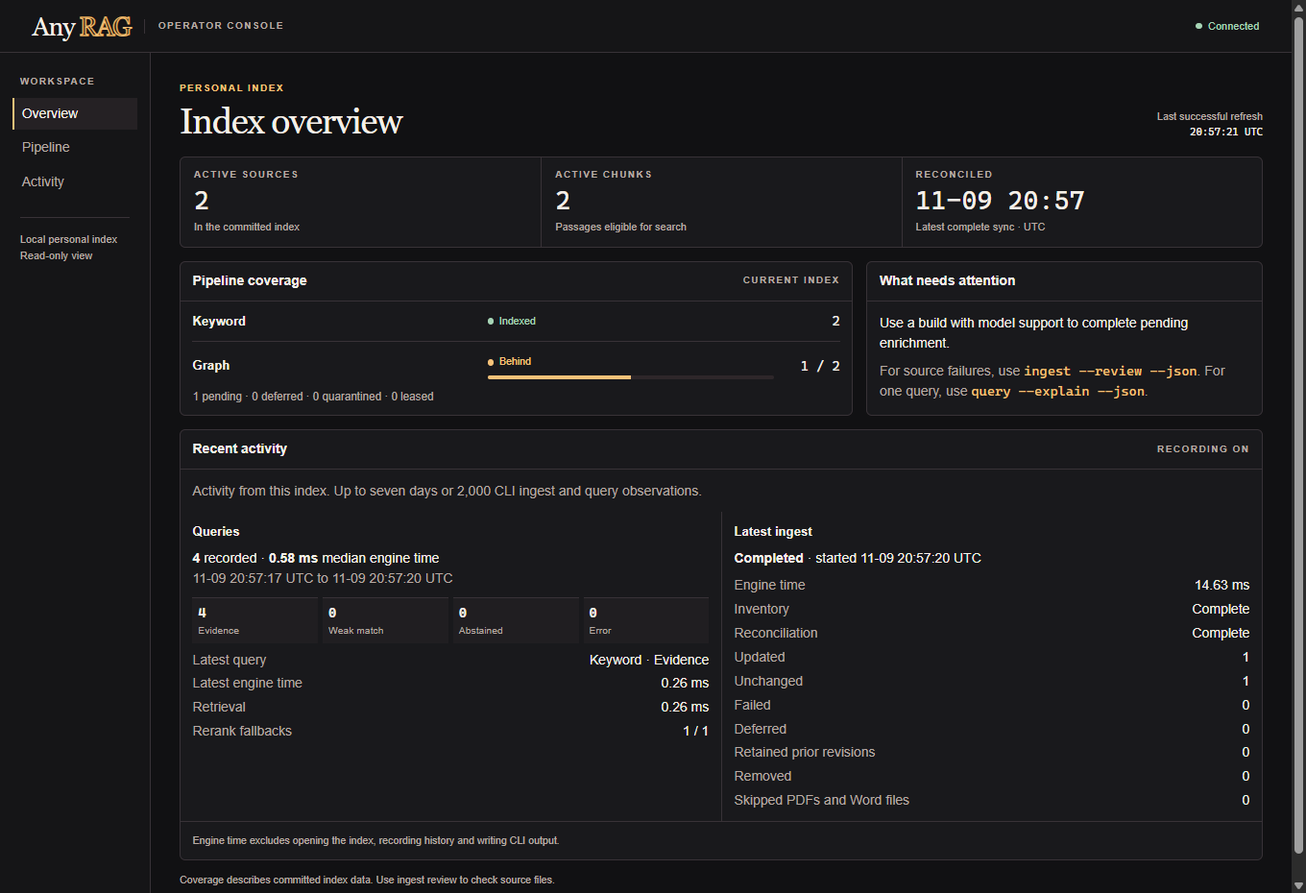
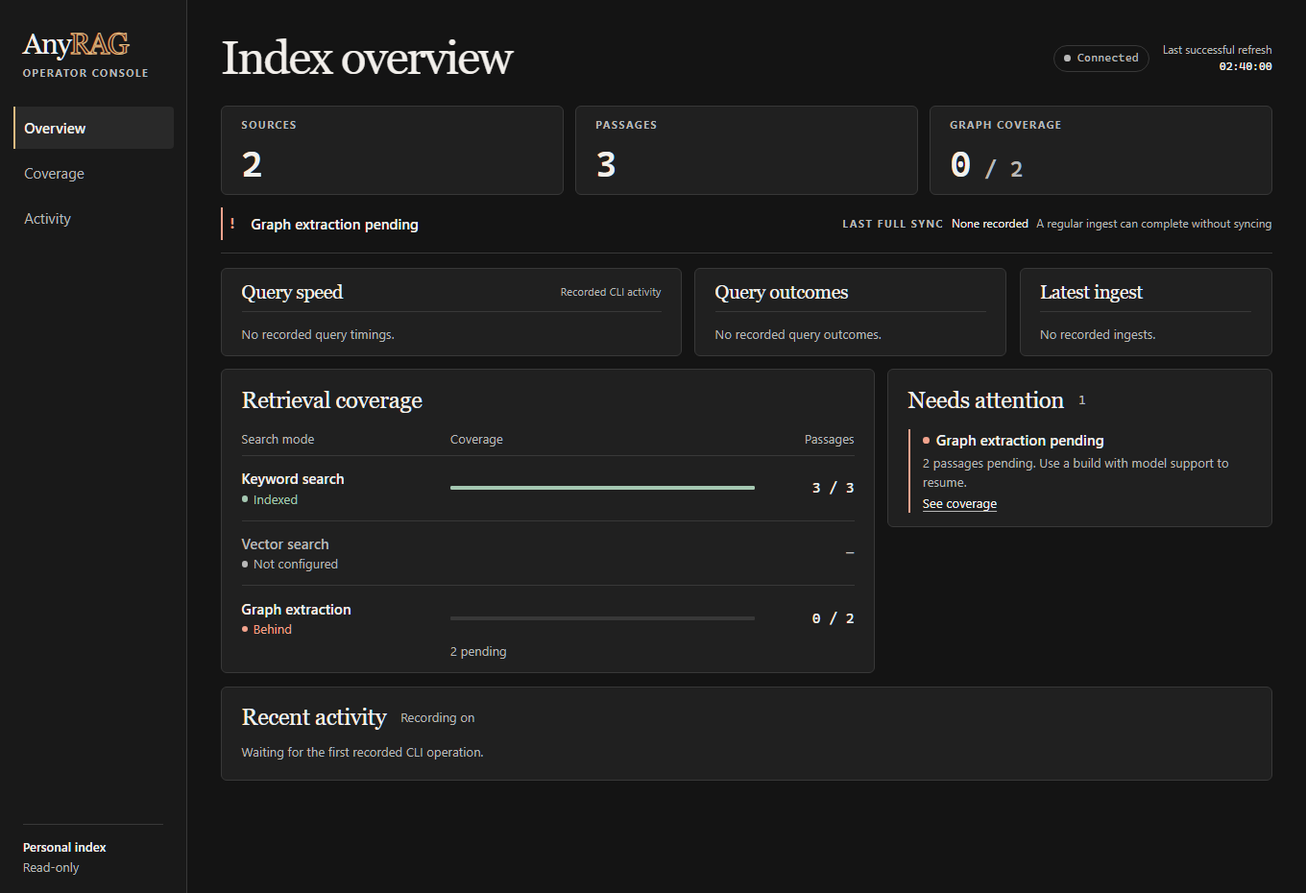
Use AnyRAG consistently as one word

diff --git a/infra/review/index.html b/infra/review/index.html
@@ -5,7 +5,7 @@
   <meta name="viewport" content="width=device-width, initial-scale=1">
   <meta name="referrer" content="no-referrer">
   <meta http-equiv="Content-Security-Policy" content="default-src 'none'; script-src 'self'; style-src 'self'; connect-src 'self'; base-uri 'none'; form-action 'none'">
-  <title>Operator console · Any RAG</title>
+  <title>Operator console · AnyRAG</title>
   <link rel="stylesheet" href="./review.css">
   <script type="module" src="./review.js"></script>
 </head>
@@ -14,7 +14,7 @@
   <div class="ops-shell">
     <aside class="ops-rail">
       <div class="ops-rail-inner">
-        <div class="ops-brand"><span class="wordmark">Any <span>RAG</span></span><span class="ops-caption">Operator console</span></div>
+        <div class="ops-brand"><span class="wordmark">Any<span>RAG</span></span><span class="ops-caption">Operator console</span></div>
         <nav class="ops-nav" aria-label="Dashboard sections">
           <button type="button" data-view="overview" aria-current="page"><span class="nav-icon icon-overview" aria-hidden="true"></span>Overview</button>
           <button type="button" data-view="search"><span class="nav-icon icon-search" aria-hidden="true"></span>Search</button>

diff --git a/crates/rust-rag/src/dashboard/view.rs b/crates/rust-rag/src/dashboard/view.rs
@@ -96,7 +96,7 @@ fn page(
   <meta charset="utf-8">
   <meta name="viewport" content="width=device-width, initial-scale=1">
   <meta name="referrer" content="no-referrer">
-  <title>Index overview | Any RAG</title>
+  <title>Index overview | AnyRAG</title>
   {assets}
 </head>
 <body>
@@ -104,7 +104,7 @@ fn page(
 <div class="frame">
   <aside class="rail">
     <div class="rail-inner">
-      <div class="brand"><span class="wordmark">Any <span>RAG</span></span><span class="label product">Operator console</span></div>
+      <div class="brand"><span class="wordmark">Any<span>RAG</span></span><span class="label product">Operator console</span></div>
       <nav aria-label="Dashboard sections">
         <a href="#overview" aria-current="location">Overview</a><a href="#pipeline">Coverage</a><a href="#indexed-sources" hidden>Sources</a><a href="#recent-activity">Activity</a>{review_link}
       </nav>
@@ -281,7 +281,7 @@ pub(super) fn cards(snapshot: &Snapshot, review: Option<&anyhow::Result<ReviewQu
             ),
             ReadState::UnsupportedSchema => (
                 "Unsupported index format",
-                "Use an Any RAG build that supports this index format.",
+                "Use an AnyRAG build that supports this index format.",
             ),
         };
         let _ = write!(

diff --git a/scripts/smoke_practical_gaps.py b/scripts/smoke_practical_gaps.py
@@ -1,4 +1,4 @@
-"""Four small, model-free smoke tests against the compiled Any RAG CLI."""
+"""Four small, model-free smoke tests against the compiled AnyRAG CLI."""
 
 import argparse
 import json

diff --git a/docs/rag-reference.md b/docs/rag-reference.md
@@ -1,6 +1,6 @@
 # RAG architecture reference
 
-Use this guide to choose a stack, explain the tradeoffs, and identify what to implement. The [field guide](field-guide.md) starts with the question and points to runnable Any RAG profiles. This reference covers the decisions behind those profiles and the extensions an adopter can build.
+Use this guide to choose a stack, explain the tradeoffs, and identify what to implement. The [field guide](field-guide.md) starts with the question and points to runnable AnyRAG profiles. This reference covers the decisions behind those profiles and the extensions an adopter can build.
 
 [Pipeline](#follow-the-evidence-through-the-pipeline) · [Sources and chunking](#sources-parsing-and-chunks) · [Embedding and retrieval](#embeddings-and-first-pass-retrieval) · [Models](#choose-models-by-job) · [Storage](#storage-and-indexing-options) · [Graph RAG](#graph-rag-patterns) · [Structured records](#structured-records-and-federated-retrieval) · [Reranking and answers](#reranking-context-and-answers) · [Evaluation](#evaluate-the-failing-stage) · [Operations](#operations-and-verification) · [Custom integrations](#when-a-workload-needs-an-adapter)
 
@@ -14,7 +14,7 @@ Use this guide to choose a stack, explain the tradeoffs, and identify what to im
 | Answer an exact question about live records | Scoped SQL or an authoritative API | Federated retrieval when documents explain the result. |
 | Answer across scans, tables, diagrams, or recordings | Layout-aware or multimodal extraction with original anchors | Separate retrieval routes by modality when one representation loses detail. |
 
-Any RAG ships local text and Markdown retrieval and SQLite. Optional builds add text-layer PDF and Word readers, semantic and hybrid search, typed graph traversal, local reranking, cited answers, and read-only MCP. Its authenticated shared service scopes reads by collection. Scanned-table OCR is **experimental**. The AWS reference includes an optional Neptune topology projection and remains **unqualified** for live cloud use. PostgreSQL/pgvector, Qdrant, and global community search are **custom integrations**. Check the status of each profile and platform before relying on it. [Setup](setup.md) · [Current status](../status.md)
+AnyRAG ships local text and Markdown retrieval and SQLite. Optional builds add text-layer PDF and Word readers, semantic and hybrid search, typed graph traversal, local reranking, cited answers, and read-only MCP. Its authenticated shared service scopes reads by collection. Scanned-table OCR is **experimental**. The AWS reference includes an optional Neptune topology projection and remains **unqualified** for live cloud use. PostgreSQL/pgvector, Qdrant, and global community search are **custom integrations**. Check the status of each profile and platform before relying on it. [Setup](setup.md) · [Current status](../status.md)
 
 ## Follow the evidence through the pipeline
 
@@ -25,7 +25,7 @@ Retrieval-augmented generation, or **RAG**, gives a model selected evidence when
 3. **Use and verify.** Optionally rerank the authorized candidates, assemble the smallest useful context, and generate an answer with citations. Resolve each citation against current evidence. If evidence is missing or contradictory, show what the sources do establish.
 4. **Maintain.** Process edits, deletes, access changes, and restores. Retire stale chunks, vectors, relationships, and saved citations together. Track whether the index is current enough for the question.
 
-**Classic RAG** uses a predictable retrieve-then-answer flow. **Agentic retrieval** can choose sources or run several searches based on intermediate results. Add it when a fixed route fails a representative question, and bound its tools, data destinations, and calls. **Multimodal retrieval** preserves evidence from images, layout, audio, or video. It starts with a representation that retains the original page region or timestamp. These choices can coexist. [Classic and agentic retrieval](https://learn.microsoft.com/en-us/azure/search/retrieval-augmented-generation-overview) · [Any RAG evidence lifecycle](architecture.md#source-and-evidence-lifecycle)
+**Classic RAG** uses a predictable retrieve-then-answer flow. **Agentic retrieval** can choose sources or run several searches based on intermediate results. Add it when a fixed route fails a representative question, and bound its tools, data destinations, and calls. **Multimodal retrieval** preserves evidence from images, layout, audio, or video. It starts with a representation that retains the original page region or timestamp. These choices can coexist. [Classic and agentic retrieval](https://learn.microsoft.com/en-us/azure/search/retrieval-augmented-generation-overview) · [AnyRAG evidence lifecycle](architecture.md#source-and-evidence-lifecycle)
 
 ## Sources, parsing, and chunks
 
@@ -38,7 +38,7 @@ Retrieval-augmented generation, or **RAG**, gives a model selected evidence when
 
 ## Embeddings and first-pass retrieval
 
-An embedding model converts content or a query into vectors. A retrieval engine compares the vectors. Record the model revision, dimensions, language and modality fit, token limits, and approved processing destination. Use compatible query and document encoders with the prefixes expected by each. Match normalization, similarity metric, and index operator class. Re-embed affected content when the model or representation changes and keep the new vectors in a separate index until cutover. The default keyword starter needs no downloaded model. Any RAG's Porter stemmer and optional `BAAI/bge-small-en-v1.5` model are English-oriented. For other languages, choose a suitable analyzer and model, and test cross-language queries if users need them. The custom embedder seam accepts other models. [Local semantic setup](setup.md#local-semantic-search) · [Custom adapter](architecture.md#using-the-rust-sdk-as-an-application-foundation) · [BGE model card](https://huggingface.co/BAAI/bge-small-en-v1.5)
+An embedding model converts content or a query into vectors. A retrieval engine compares the vectors. Record the model revision, dimensions, language and modality fit, token limits, and approved processing destination. Use compatible query and document encoders with the prefixes expected by each. Match normalization, similarity metric, and index operator class. Re-embed affected content when the model or representation changes and keep the new vectors in a separate index until cutover. The default keyword starter needs no downloaded model. AnyRAG's Porter stemmer and optional `BAAI/bge-small-en-v1.5` model are English-oriented. For other languages, choose a suitable analyzer and model, and test cross-language queries if users need them. The custom embedder seam accepts other models. [Local semantic setup](setup.md#local-semantic-search) · [Custom adapter](architecture.md#using-the-rust-sdk-as-an-application-foundation) · [BGE model card](https://huggingface.co/BAAI/bge-small-en-v1.5)
 
 A local embedding model uses host memory and compute and needs explicit model acquisition. A hosted API handles serving and scaling but receives input text and adds network latency, credentials, and per-call cost. Pin the model and endpoint behavior in either case. Benchmark the languages and document types users actually search.
 
@@ -68,7 +68,7 @@ The jobs can run on different hosts, use different models, or be omitted. For ea
 
 Choose the store based on data ownership, permission filters, index lifecycle, and measured query cost. Exact nearest-neighbor search scores every eligible vector and provides a recall baseline. Approximate nearest-neighbor search (ANN) reduces work through an index and can miss true neighbors. Test the same filter, metric, and data when comparing the two. A graph database serves relationship traversal and a vector index serves similarity search. A deployment can use both, or keep both in one store.
 
-| Store or pattern | Good fit | Tradeoff | Any RAG |
+| Store or pattern | Good fit | Tradeoff | AnyRAG |
 | --- | --- | --- | --- |
 | SQLite with FTS5 and exact vector scoring in the application | A personal or bounded single-host deployment with a simple backup and restore path | Embeddings live in SQLite blobs. Exact scoring grows with the number of eligible chunks. One host owns the write lifecycle. | Shipped. |
 | PostgreSQL and pgvector | An organization already runs PostgreSQL, or vector retrieval needs SQL joins, transactions, and metadata or access filters alongside relational data | Adds network calls, connection pooling, database operations, and ANN tuning. Shared indexes can couple scopes. | Custom. See below. |
@@ -77,7 +77,7 @@ Choose the store based on data ownership, permission filters, index lifecycle, a
 | Vector service, such as Qdrant, or managed vector search | Vector query scale or filtering needs its own lifecycle | Keep document authority and evidence pointers consistent with the derived index. Review tenant isolation, reindexing, egress, and recovery. | Custom. |
 | Private graph store, such as Neptune or a property-graph service | Relationships need their own query or projection lifecycle | Adds a separate store, synchronization, and scope checks on every hop. A graph engine does not establish evidence or permissions by itself. | Neptune projection in the AWS reference. Other graph stores are custom. |
 
-[Qdrant indexing and filters](https://qdrant.tech/documentation/manage-data/indexing/) · [Azure AI Search vector filters](https://learn.microsoft.com/en-us/azure/search/vector-search-filters) · [Any RAG AWS reference](../infra/aws-deployment.md#opt-in-neptune)
+[Qdrant indexing and filters](https://qdrant.tech/documentation/manage-data/indexing/) · [Azure AI Search vector filters](https://learn.microsoft.com/en-us/azure/search/vector-search-filters) · [AnyRAG AWS reference](../infra/aws-deployment.md#opt-in-neptune)
 
 ### PostgreSQL with pgvector
 
@@ -95,7 +95,7 @@ Match the query metric to the index operator class, such as `vector_cosine_ops` 
 
 **Integration path.** Store chunk ID, source ID, active revision, collection, model fingerprint, and a fixed-dimension vector. Bind request-derived scope from verified policy and use parameterized queries. If using row-level security, run as a least-privileged role that cannot bypass it, and test with the actual application role and connection pool. PostgreSQL owners normally bypass row security unless it is forced. Superusers and roles with `BYPASSRLS` bypass it. Keep scope context transaction-bound so a reused connection cannot inherit it. [PostgreSQL row security](https://www.postgresql.org/docs/current/ddl-rowsecurity.html)
 
-For a first Any RAG integration, keep SQLite authoritative and make the pgvector index rebuildable. Synchronize active revisions and deletes, retrieve IDs and scores, then resolve them against current authorized SQLite evidence. Discard stale candidates and report an index lag or unavailable state when needed. A full PostgreSQL store replacement also needs atomic revision publication, backups, restore, and scope parity across lexical, vector, graph, and citations. These are implementation options beyond the shipped profiles.
+For a first AnyRAG integration, keep SQLite authoritative and make the pgvector index rebuildable. Synchronize active revisions and deletes, retrieve IDs and scores, then resolve them against current authorized SQLite evidence. Discard stale candidates and report an index lag or unavailable state when needed. A full PostgreSQL store replacement also needs atomic revision publication, backups, restore, and scope parity across lexical, vector, graph, and citations. These are implementation options beyond the shipped profiles.
 
 An exact baseline for a custom `chunk_vectors` projection can materialize the eligible rows before sorting. Bind `$1` to permitted collections from trusted policy, `$2` to the embedding fingerprint, `$3` to a same-model query vector, and `$4` to a bounded result count. The `is_current` marker represents the projection's last synced state. Recheck every returned revision against the authoritative store.
 
@@ -135,7 +135,7 @@ Graph RAG represents relationships and uses them during retrieval. For a depende
 | Community summaries and global or hierarchical search | “What risks recur across the entire portfolio?” | Generates broader coverage at indexing and query cost. Summaries can mix scopes and go stale. Build them within a permission boundary and retain supporting sources and rebuild rules. |
 | Iterative graph retrieval or DRIFT-style search | “Which related projects might explain this recurring problem?” | Can widen coverage through follow-up questions. Bound traversal and model calls, carry permissions, and preserve traceable evidence for each branch. |
 
-Local graph retrieval, collection-wide summaries, and iterative retrieval are separate integration choices. Any RAG implements scoped, bounded evidence traversal. Its optional Neptune Database adapter projects opaque topology, validates active generations, and resolves returned edges against authoritative SQLite evidence. Neptune Analytics is a separate AWS service for analytical workloads. [Full Any RAG pipeline](architecture.md#full-graph-rag-pipeline) · [Neptune Analytics](https://docs.aws.amazon.com/neptune-analytics/latest/userguide/what-is-neptune-analytics.html)
+Local graph retrieval, collection-wide summaries, and iterative retrieval are separate integration choices. AnyRAG implements scoped, bounded evidence traversal. Its optional Neptune Database adapter projects opaque topology, validates active generations, and resolves returned edges against authoritative SQLite evidence. Neptune Analytics is a separate AWS service for analytical workloads. [Full AnyRAG pipeline](architecture.md#full-graph-rag-pipeline) · [Neptune Analytics](https://docs.aws.amazon.com/neptune-analytics/latest/userguide/what-is-neptune-analytics.html)
 
 ## Structured records and federated retrieval
 
@@ -145,9 +145,9 @@ Use federated retrieval when no single source can answer the question. A scoped 
 
 ## Reranking, context, and answers
 
-Reranking takes a small candidate set and scores each candidate against the original question. Use it when retrieval finds the right evidence but puts it below weaker matches. A **cross-encoder** sees the query and passage together, which can improve relevance at the cost of inference for each pair. A late-interaction scorer can reuse passage token vectors. An LLM can compare several passages at once, with more token cost and a need to validate returned IDs. A local reranker keeps model traffic on the chosen host and uses CPU or GPU time. A hosted reranker adds a network call and sees the supplied query and passages. Heuristic boosts are cheaper and interpretable but need rules suited to the corpus. Bound candidate count, length, and timeout. Test a defined fallback such as retaining the initial authorized ordering. Any RAG offers opt-in local learned reranking alongside first-pass ranking and RRF. The verified recipe and its timeout behavior are documented separately. [Local shared reranking](setup.md#local-shared-reranking) · [Local personal reranking](setup.md#local-personal-reranking) · [Sentence Transformers retrieve and rerank](https://sbert.net/examples/sentence_transformer/applications/retrieve_rerank/README.html) · [ColBERTv2 paper](https://aclanthology.org/2022.naacl-main.272/)
+Reranking takes a small candidate set and scores each candidate against the original question. Use it when retrieval finds the right evidence but puts it below weaker matches. A **cross-encoder** sees the query and passage together, which can improve relevance at the cost of inference for each pair. A late-interaction scorer can reuse passage token vectors. An LLM can compare several passages at once, with more token cost and a need to validate returned IDs. A local reranker keeps model traffic on the chosen host and uses CPU or GPU time. A hosted reranker adds a network call and sees the supplied query and passages. Heuristic boosts are cheaper and interpretable but need rules suited to the corpus. Bound candidate count, length, and timeout. Test a defined fallback such as retaining the initial authorized ordering. AnyRAG offers opt-in local learned reranking alongside first-pass ranking and RRF. The verified recipe and its timeout behavior are documented separately. [Local shared reranking](setup.md#local-shared-reranking) · [Local personal reranking](setup.md#local-personal-reranking) · [Sentence Transformers retrieve and rerank](https://sbert.net/examples/sentence_transformer/applications/retrieve_rerank/README.html) · [ColBERTv2 paper](https://aclanthology.org/2022.naacl-main.272/)
 
-Build context from authorized, deduplicated passages within a token budget. Preserve neighboring passages or required hops when a citation needs them. Track conflicts, dates, and provenance. Treat retrieved text and model output as untrusted data in query transformation, reranking, and answer generation. Separate tool privileges from model prompts. Enforce explicit read scopes in the application. Use structured answer output and validate citations against evidence actually supplied. Citation membership alone cannot establish that a passage supports a claim. For missing evidence, return the available passages or an explicit insufficient-evidence result. [Any RAG security boundaries](../SECURITY.md) · [OWASP guidance for LLM applications](https://owasp.org/projects/top-10-for-large-language-model-applications)
+Build context from authorized, deduplicated passages within a token budget. Preserve neighboring passages or required hops when a citation needs them. Track conflicts, dates, and provenance. Treat retrieved text and model output as untrusted data in query transformation, reranking, and answer generation. Separate tool privileges from model prompts. Enforce explicit read scopes in the application. Use structured answer output and validate citations against evidence actually supplied. Citation membership alone cannot establish that a passage supports a claim. For missing evidence, return the available passages or an explicit insufficient-evidence result. [AnyRAG security boundaries](../SECURITY.md) · [OWASP guidance for LLM applications](https://owasp.org/projects/top-10-for-large-language-model-applications)
 
 ## Evaluate the failing stage
 
@@ -160,7 +160,7 @@ Build context from authorized, deduplicated passages within a token budget. Pres
 | Denied or outdated evidence surfaces | Unauthorized and stale results in search, citation reads, graph paths, and model requests | Correct scope and revision enforcement before comparing ranking quality. |
 | Useful answers take too long | End-to-end p95, per-stage latency, fallback rate, and update lag | Reduce the work in the measured bottleneck and report what fallback returns. |
 
-Keep the same questions, expected evidence, and access policy for before-and-after runs. Include exact identifiers, paraphrases, genuinely multi-hop questions, and questions with no supported answer. Record the corpus, settings, model revisions, and limits so another operator can reproduce the comparison. [Any RAG benchmark examples](benchmarks.md)
+Keep the same questions, expected evidence, and access policy for before-and-after runs. Include exact identifiers, paraphrases, genuinely multi-hop questions, and questions with no supported answer. Record the corpus, settings, model revisions, and limits so another operator can reproduce the comparison. [AnyRAG benchmark examples](benchmarks.md)
 
 Use the optional [local retrieval check](setup.md#check-retrieval-on-your-own-questions) to score whether keyword or Graph RAG results contain every passage you specified. The check reopens citations and compares exact excerpts. Measure answer quality, access rules, and hosted-model behavior separately for those workloads.
 
@@ -184,14 +184,14 @@ Use the optional [local retrieval check](setup.md#check-retrieval-on-your-own-qu
 | Retrieval and answer quality | Freeze development and held-out questions with expected source passages and unanswerable cases. Compare Recall@k for evidence coverage, MRR or nDCG for ordering, and path or edge support for graph. Check citation correctness and claim support independently, plus abstention and false positives. Compare a no-graph baseline before adding expensive stages. |
 | Recovery and monitoring | Back up authoritative evidence and keep policy independently recoverable. Restore in maintenance, reconcile current versions and grants, then reopen explicitly. Track stage timings and counts without retaining source text by default. Check health separately from readiness to answer. |
 
-Distinguish logical removal from physical retention. A superseded SQLite revision becomes ineligible for retrieval, and WAL and backup retention need their own controls. PostgreSQL's MVCC can retain dead row versions until maintenance, and vacuum is no guarantee of erasure from disk or backups. Search and vector stores can retain old segments, index entries, or snapshots after an item stops appearing in search. Graph projections need cleanup as well as invalidation. Verify when query visibility ends and record the purge or expiry policy for each copy, including caches and provider logs. [Any RAG deletion and retention](../SECURITY.md) · [PostgreSQL vacuuming](https://www.postgresql.org/docs/current/routine-vacuuming.html)
+Distinguish logical removal from physical retention. A superseded SQLite revision becomes ineligible for retrieval, and WAL and backup retention need their own controls. PostgreSQL's MVCC can retain dead row versions until maintenance, and vacuum is no guarantee of erasure from disk or backups. Search and vector stores can retain old segments, index entries, or snapshots after an item stops appearing in search. Graph projections need cleanup as well as invalidation. Verify when query visibility ends and record the purge or expiry policy for each copy, including caches and provider logs. [AnyRAG deletion and retention](../SECURITY.md) · [PostgreSQL vacuuming](https://www.postgresql.org/docs/current/routine-vacuuming.html)
 
 **Trace the work behind one request.** Start with the [local retrieval explanation](setup.md#review-sources-and-explain-results). In a multi-service app, propagate a request ID and record stage, elapsed time, candidate count, model fingerprint, and fallback reason where each component can report them. Record whether a stage was disabled, incomplete, or attempted and fell back. Keep raw questions, passages, and credentials out of default trace exports. Use synthetic requests to verify the trace and check its retention and destination before enabling it on a shared service.
 
 ### Record a build decision
 
 1. Write one representative question, an expected source location, and who can see it.
-2. Choose the source path, representation, retrieval method, storage, and optional graph or reranking path. Identify which parts use an existing Any RAG profile and which require adapters.
+2. Choose the source path, representation, retrieval method, storage, and optional graph or reranking path. Identify which parts use an existing AnyRAG profile and which require adapters.
 3. Record which processes receive text, vectors, metadata, or credentials. Define how updates, revocations, failures, and deletes propagate.
 4. Run a first query over synthetic or approved data. Follow one result back to its source. Use the operations checks to qualify claims about scale, quality, and isolation. Installation and custom configuration remain available without evaluation.
 

diff --git a/infra/private-vm.md b/infra/private-vm.md
@@ -1,6 +1,6 @@
 # Portable shared service on a private Linux VM
 
-Use this recipe on an existing Linux host, including an Azure VM. It requires a Docker-compatible runtime, a dedicated host-attached disk, a trusted OIDC issuer, and a private HTTPS listener. Run one service instance per state directory, with all its collection stores on the same host. Put state on an attached block device, and keep policy history and backups on independently managed storage. [Any RAG architecture](../docs/architecture.md) · [Azure Linux VM data disks](https://learn.microsoft.com/en-us/azure/virtual-machines/linux/disks-format-mount-data-disks-linux)
+Use this recipe on an existing Linux host, including an Azure VM. It requires a Docker-compatible runtime, a dedicated host-attached disk, a trusted OIDC issuer, and a private HTTPS listener. Run one service instance per state directory, with all its collection stores on the same host. Put state on an attached block device, and keep policy history and backups on independently managed storage. [AnyRAG architecture](../docs/architecture.md) · [Azure Linux VM data disks](https://learn.microsoft.com/en-us/azure/virtual-machines/linux/disks-format-mount-data-disks-linux)
 
 ## Build an image
 
@@ -47,7 +47,7 @@ Run the commands below or the [personal Linux quickstart](../docs/setup.md#try-p
 
 1. Mount the attached block volume at `/var/lib/rust-rag`. Provision it for service UID and GID `10001` with mode `0700`. Use encrypted storage if the data requires it. Keep the image read-only and writable temporary data on a bounded tmpfs.
 2. Copy [the shared profile](shared.profile.example.json) to `/etc/rust-rag/profile.json` outside the repo and update the issuer, audience, JWKS URL, and source locations. Set `allow_proxy_http: true` for the isolated container listener, and publish only to the host loopback behind your TLS proxy. Give the service account read access to this file, source collections, and any approved model credential files. Keep sources mounted read-only. Provision each collection as a separate non-overlapping path.
-3. Set up the policy directory on durable storage separate from index state. Use mode `0700` on the policy and backup roots. On Linux, Any RAG rejects group or other permissions on these directories. Give UID and GID `10001` access to the roots and policy files, and mount policy read-only in the container. Publish `versions/1.json` from a trusted host-side administrator, then atomically replace `current.json` with those exact bytes. Increase `version` for every policy change and publish its version file before replacing `current.json`.
+3. Set up the policy directory on durable storage separate from index state. Use mode `0700` on the policy and backup roots. On Linux, AnyRAG rejects group or other permissions on these directories. Give UID and GID `10001` access to the roots and policy files, and mount policy read-only in the container. Publish `versions/1.json` from a trusted host-side administrator, then atomically replace `current.json` with those exact bytes. Increase `version` for every policy change and publish its version file before replacing `current.json`.
 
 ```json
 {
@@ -119,7 +119,7 @@ After starting the container in the next section, verify the proxy with `curl --
 
 Use a current native build with the `shared` feature and install Git on the service host. The packaged Linux image omits Git. For a container deployment, use a source-built derivative with distro-packaged Git on the service PATH and mount the mirror read-only.
 
-Use a dedicated bare mirror of one company documentation repository. A separate operator or job with source-specific read credentials fetches updates into the mirror. Keep its credential configuration outside Any RAG and give the service account read access to the mirror. Use a self-contained mirror and retain the history needed to advance the last indexed commit. For example, under the mirror operator account:
+Use a dedicated bare mirror of one company documentation repository. A separate operator or job with source-specific read credentials fetches updates into the mirror. Keep its credential configuration outside AnyRAG and give the service account read access to the mirror. Use a self-contained mirror and retain the history needed to advance the last indexed commit. For example, under the mirror operator account:
 
 ```sh
 git clone --bare --single-branch --branch main https://git.internal.example/team/handbook.git /srv/anyrag/handbook.git
@@ -137,7 +137,7 @@ In the service profile, set one entry in `sources` to:
 }
 ```
 
-Use the same collection name in the signed Any RAG policy. Include that collection's readers and reviewers only if they can access every indexed path. Synchronize organization grants into the signed policy through the deployment's trusted identity process. The prefix selects a literal portion of the tree. Authorization applies to the whole collection. Use separate restricted repositories and collections when readers need different access. A tag under `refs/tags/` is also supported.
+Use the same collection name in the signed AnyRAG policy. Include that collection's readers and reviewers only if they can access every indexed path. Synchronize organization grants into the signed policy through the deployment's trusted identity process. The prefix selects a literal portion of the tree. Authorization applies to the whole collection. Use separate restricted repositories and collections when readers need different access. A tag under `refs/tags/` is also supported.
 
 Run `service-doctor`, refresh the mirror, then sync as an administrator. The service reads one commit and publishes the completed collection transaction at once. Queries use the last committed data during staging. An edit keeps the source ID for the same path and retires its old citation. A rename retires the old path and adds the new path. Reopen a citation using the same signed reader, then remove that subject's grant and confirm the citation and search result become unavailable.
 

diff --git a/infra/aws-deployment.md b/infra/aws-deployment.md
@@ -1,10 +1,10 @@
 # Private AWS reference profile
 
-The Any RAG reference uses one EC2 host, an encrypted attached EBS volume, a private HTTPS load balancer, and versioned S3 source, backup, and policy stores. SQLite is authoritative for evidence and typed assertions. The optional Neptune mode adds a private, encrypted projection. Treat this as a single-organization, single-host profile with an explicit recovery procedure. Live deployment and capacity evidence must match the chosen region, network, image, and models. [Neptune private access](https://docs.aws.amazon.com/neptune/latest/userguide/security-vpc.html)
+The AnyRAG reference uses one EC2 host, an encrypted attached EBS volume, a private HTTPS load balancer, and versioned S3 source, backup, and policy stores. SQLite is authoritative for evidence and typed assertions. The optional Neptune mode adds a private, encrypted projection. Treat this as a single-organization, single-host profile with an explicit recovery procedure. Live deployment and capacity evidence must match the chosen region, network, image, and models. [Neptune private access](https://docs.aws.amazon.com/neptune/latest/userguide/security-vpc.html)
 
 ## Deployment architecture
 
-[![Private HTTPS traffic reaches a single Any RAG EC2 host with SQLite on encrypted EBS. Separate S3 buckets hold sources, policy, and backups. Optional Neptune holds opaque topology.](../docs/assets/aws-reference-architecture.svg)](../docs/assets/aws-reference-architecture.svg)
+[![Private HTTPS traffic reaches a single AnyRAG EC2 host with SQLite on encrypted EBS. Separate S3 buckets hold sources, policy, and backups. Optional Neptune holds opaque topology.](../docs/assets/aws-reference-architecture.svg)](../docs/assets/aws-reference-architecture.svg)
 
 ## Before creating a change set
 
@@ -113,7 +113,7 @@ rust_rag_request POST /v1/admin/reopen
 
 ## Opt-in Neptune
 
-Set `EnableNeptune=true`, choose an available `NeptuneEngineVersion` supporting custom openCypher IDs, and provide `NeptuneKeySecretArn` containing 64 hexadecimal characters from a secure generator. Keep the key stable per deployment. Configure a named extraction endpoint and grant its use for the approved collections. The host injects the private writer endpoint and a protected key-file reference. This profile runs its own Neptune cluster for one Any RAG deployment. [Neptune custom IDs](https://docs.aws.amazon.com/neptune/latest/userguide/access-graph-opencypher-extensions.html)
+Set `EnableNeptune=true`, choose an available `NeptuneEngineVersion` supporting custom openCypher IDs, and provide `NeptuneKeySecretArn` containing 64 hexadecimal characters from a secure generator. Keep the key stable per deployment. Configure a named extraction endpoint and grant its use for the approved collections. The host injects the private writer endpoint and a protected key-file reference. This profile runs its own Neptune cluster for one AnyRAG deployment. [Neptune custom IDs](https://docs.aws.amazon.com/neptune/latest/userguide/access-graph-opencypher-extensions.html)
 
 The template permits Neptune traffic from the application security group and grants query actions to the instance role. The adapter projects keyed entity, revision, generation, and collection identifiers with opaque edge anchors. SQLite retains assertion predicates, labels, and evidence. The adapter activates a generation only after staging all its edges, then retries bounded cleanup of older generations. Reads use a fixed parameterized query that compares every authorized collection's generation and limits candidates to authorized active revisions before ordering and limiting. A stale or oversized scope yields graph unavailable. The application checks the returned anchors in SQLite before traversing or citing them. Use the writer endpoint for both staging and lookup. [Neptune endpoint roles](https://docs.aws.amazon.com/neptune/latest/userguide/feature-overview-endpoints.html) · [Neptune IAM data resources](https://docs.aws.amazon.com/neptune/latest/userguide/iam-data-resources.html)
 

diff --git a/SECURITY.md b/SECURITY.md
@@ -1,6 +1,6 @@
 # Privacy and security boundaries
 
-Any RAG has an owner-local profile and an optional shared service for one organization. See [status](status.md) for the checks completed on each runtime and deployment.
+AnyRAG has an owner-local profile and an optional shared service for one organization. See [status](status.md) for the checks completed on each runtime and deployment.
 
 ## Public source boundary
 
@@ -9,7 +9,7 @@ Keep private documents, credentials, runtime state, and backups outside the chec
 ## Runtime product requirements
 
 - Private local processing has no external processing API, telemetry or outbound model calls. Disclose initial package/model downloads separately; verify runtime with networking disabled after prerequisites are present.
-- Evidence-only describes a capability, not its privacy boundary. A hosted harness may send retrieved text, queries, filenames/paths, metadata, logs and tool/file contents to its provider. Strict-local data needs a local consuming client/harness. Hosted installation assistance must remain on nonsensitive configuration if that boundary is required. Any RAG's offline checks cannot certify an external harness or guarantee what it reads/sends.
+- Evidence-only describes a capability, not its privacy boundary. A hosted harness may send retrieved text, queries, filenames/paths, metadata, logs and tool/file contents to its provider. Strict-local data needs a local consuming client/harness. Hosted installation assistance must remain on nonsensitive configuration if that boundary is required. AnyRAG's offline checks cannot certify an external harness or guarantee what it reads/sends.
 - External generation, embeddings, extraction, OCR, reranking and telemetry are separate data-egress choices. Default telemetry off. Keep document/query text, source URLs and credentials out of operational logs; diagnostic opt-in is bounded and reversible.
 - Local service binds to loopback by default. Shared/network exposure requires identity, authorization, TLS and an explicit profile. Restrict browser origins; never combine permissive CORS with privileged sessions.
 - Shared access uses the configured issuer and server-owned collection grants. Apply grants before ranking, graph expansion, citation resolution, and model dispatch. The service rereads authoritative policy per request and fails closed when it cannot verify it. Keep collection grants aligned with the source's actual permissions. Write access to an admitted source folder or prefix conveys authority to add content to that collection, so restrict writer access and treat every passage as untrusted.
@@ -46,4 +46,4 @@ For WAL mode, request a truncate checkpoint after removal and inspect whether it
 
 A public vulnerability-reporting route must be established before release. Until then, use a private maintainer channel already known to you; do not post secrets or private documents to a public issue.
 
-CLI export requires an explicit new output file outside checkout/known sync locations and uses owner-only POSIX mode; no full-corpus stdout route is exposed. A consuming external assistant remains outside Any RAG's control. Strong or weak retrieval results remain candidate context with unverified answer support.
+CLI export requires an explicit new output file outside checkout/known sync locations and uses owner-only POSIX mode; no full-corpus stdout route is exposed. A consuming external assistant remains outside AnyRAG's control. Strong or weak retrieval results remain candidate context with unverified answer support.

diff --git a/AGENTS.md b/AGENTS.md
@@ -1,12 +1,12 @@
-# Any RAG operating instructions
+# AnyRAG operating instructions
 
 ## Workspace and current phase
 
-This directory is the Any RAG operating workspace. Read `status.md`, `docs/project/inspect.md`, and `docs/project/plan.md` before work. The public repository is `skigsy/AnyRAG`. Verify the explicit public allowlist and full Git history before publication. Subsequent releases, artifact uploads and paid infrastructure require their own authorization. Use sub-agents as needed. Never copy client data.
+This directory is the AnyRAG operating workspace. Read `status.md`, `docs/project/inspect.md`, and `docs/project/plan.md` before work. The public repository is `skigsy/AnyRAG`. Verify the explicit public allowlist and full Git history before publication. Subsequent releases, artifact uploads and paid infrastructure require their own authorization. Use sub-agents as needed. Never copy client data.
 
 ## Build and installation requests
 
-When someone points an agent at Any RAG and says “install”, “set this up”, or “build RAG for this workload”:
+When someone points an agent at AnyRAG and says “install”, “set this up”, or “build RAG for this workload”:
 
 1. Check [status](status.md) and the [decision tree](docs/field-guide.md#decision-tree). Use `rust-rag plan <profile> --json` to get a starting recipe and `rust-rag capabilities --json` to see the selected build's features.
 2. Start from what the user gave. Ask for a representative question, its expected evidence, file formats, access, update needs, machine limits, or permitted destinations only when the answer changes the build.

diff --git a/docs/architecture.md b/docs/architecture.md
@@ -1,6 +1,6 @@
 # Architecture and guided installation
 
-Any RAG assembles a local file index, retrieval pipeline, and optional shared service from one Rust workspace. Profiles add independent pieces. Every search returns located source passages, with optional relationship support and an optional model answer.
+AnyRAG assembles a local file index, retrieval pipeline, and optional shared service from one Rust workspace. Profiles add independent pieces. Every search returns located source passages, with optional relationship support and an optional model answer.
 
 [Full Graph RAG pipeline](#full-graph-rag-pipeline) · [Architecture choices](rag-reference.md) · [Private AWS deployment diagram](../infra/aws-deployment.md#deployment-architecture)
 
@@ -49,7 +49,7 @@ fn main() -> anyhow::Result<()> {
 }
 ~~~
 
-Use the Any RAG executable for PDF worker isolation. A custom embedding adapter can implement `rust_rag::Embedder` with the `model` feature. Use a different fingerprint and fresh embedding index when changing model, preprocessing, or dimensions. Always apply permissions before choosing which documents to embed or retrieve in a shared application.
+Use the AnyRAG executable for PDF worker isolation. A custom embedding adapter can implement `rust_rag::Embedder` with the `model` feature. Use a different fingerprint and fresh embedding index when changing model, preprocessing, or dimensions. Always apply permissions before choosing which documents to embed or retrieve in a shared application.
 
 ## Full Graph RAG pipeline
 

diff --git a/infra/ocr/README.md b/infra/ocr/README.md
@@ -1,6 +1,6 @@
 # Offline scanned and table PDF ingestion
 
-This experimental Linux amd64 recipe adds OCR and table evidence to a fresh folder index. Any RAG passes PDF bytes over a private Unix socket. The worker sees the submitted PDF and has no source-folder, index, credential, or container-runtime mounts. Use the native `--pdf` reader for text-layer collections. [OCR qualification status](../../status.md#all-in-one-release-gates)
+This experimental Linux amd64 recipe adds OCR and table evidence to a fresh folder index. AnyRAG passes PDF bytes over a private Unix socket. The worker sees the submitted PDF and has no source-folder, index, credential, or container-runtime mounts. Use the native `--pdf` reader for text-layer collections. [OCR qualification status](../../status.md#all-in-one-release-gates)
 
 ## Build and start
 

diff --git a/crates/rust-rag/README.md b/crates/rust-rag/README.md
@@ -1,4 +1,4 @@
-# Any RAG command reference
+# AnyRAG command reference
 
 The root Cargo workspace builds `rust-rag`. [Install](../../docs/setup.md#install-from-this-repository) · [Status and platform verification](../../status.md) · [Architecture](../../docs/architecture.md)
 
@@ -164,7 +164,7 @@ The native text prototype, built with the same platform toolchain for a syntheti
 
 ## Maintainer check
 
-Build and test with the matching feature flags. Python is used here to drive the copied Rust executable through synthetic inputs; it is not installed by Any RAG.
+Build and test with the matching feature flags. Python is used here to drive the copied Rust executable through synthetic inputs; it is not installed by AnyRAG.
 
 ~~~sh
 cargo test --locked --features pdf,docx,model

diff --git a/README.md b/README.md
@@ -80,7 +80,7 @@ See the linked setup for package and build options. Guided lookup runs after an 
 
 ## Live operator dashboard
 
-[![AnyRAG shared operator dashboard showing corpus bars, graph and vector queue rings, and the operator watchlist.](docs/assets/dashboard/overview.png)](infra/review/README.md)
+[![AnyRAG shared operator dashboard using synthetic data, with corpus bars, graph and vector queues, and the operator watchlist.](docs/assets/dashboard/overview.png)](infra/review/README.md)
 
 See what’s indexed and where work is waiting. Follow the watchlist into evidence traces, graph review, and checks that reopen citations under the signed-in user's access.
 
